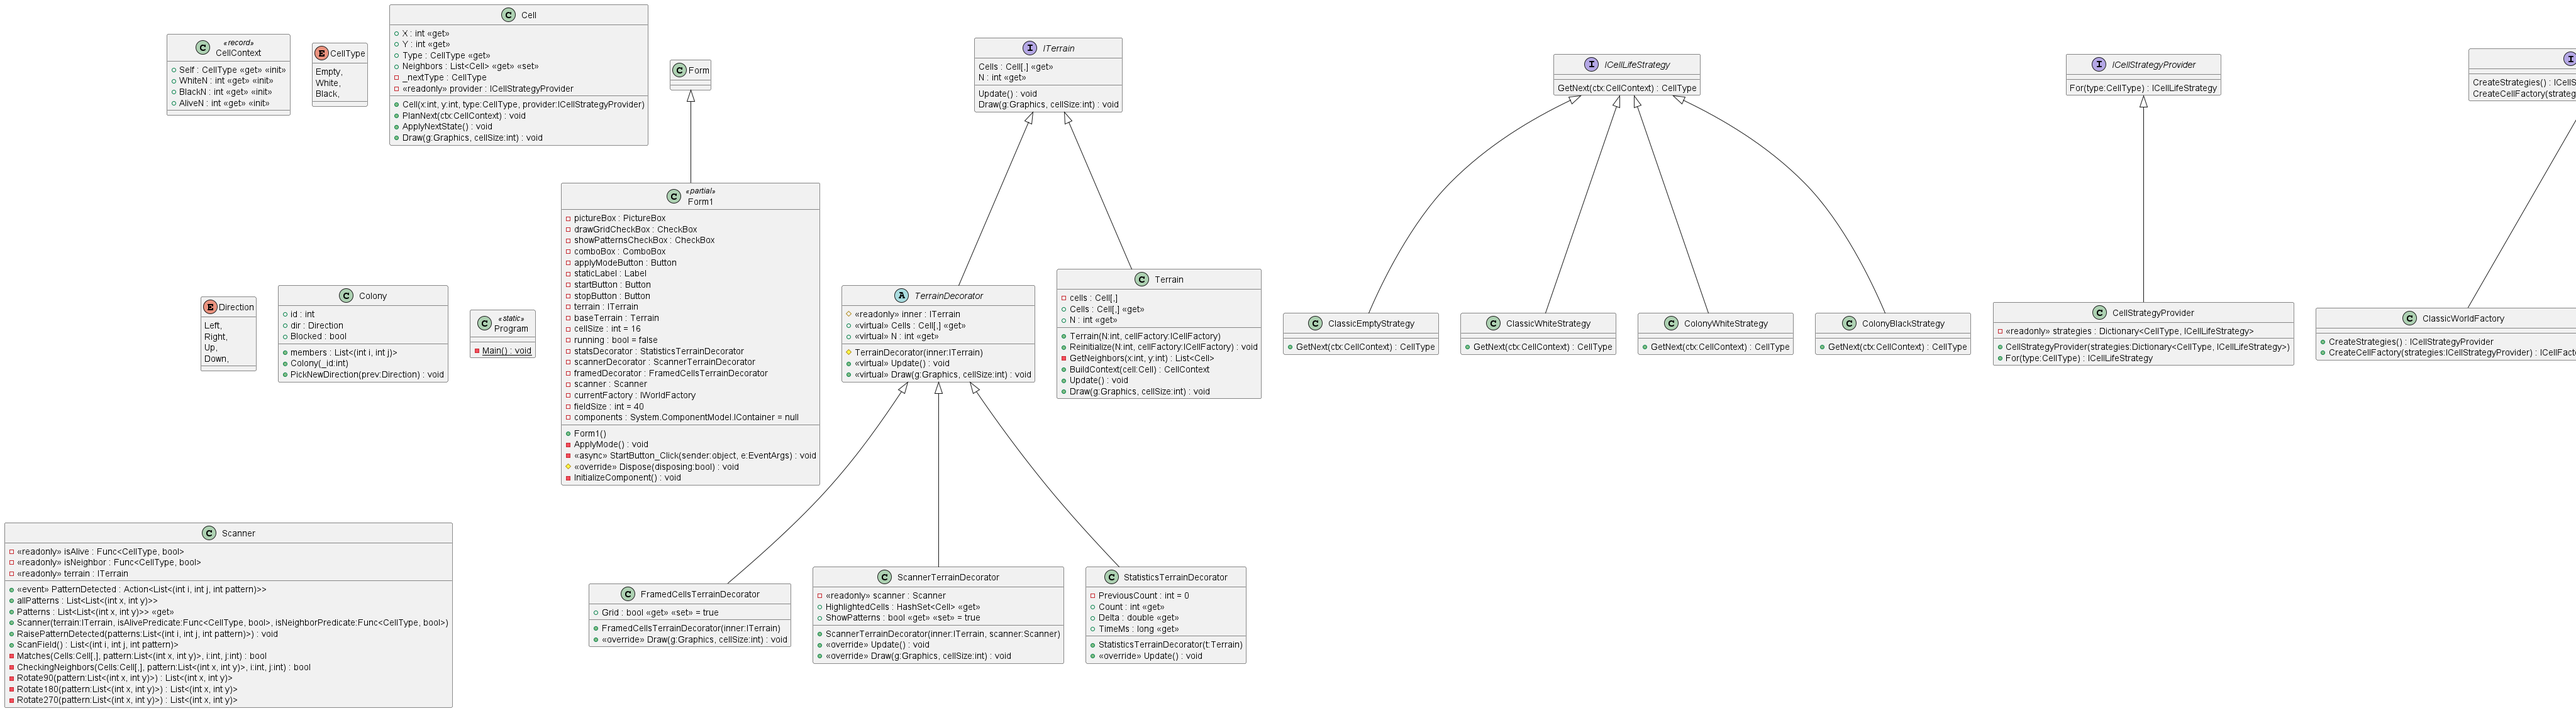
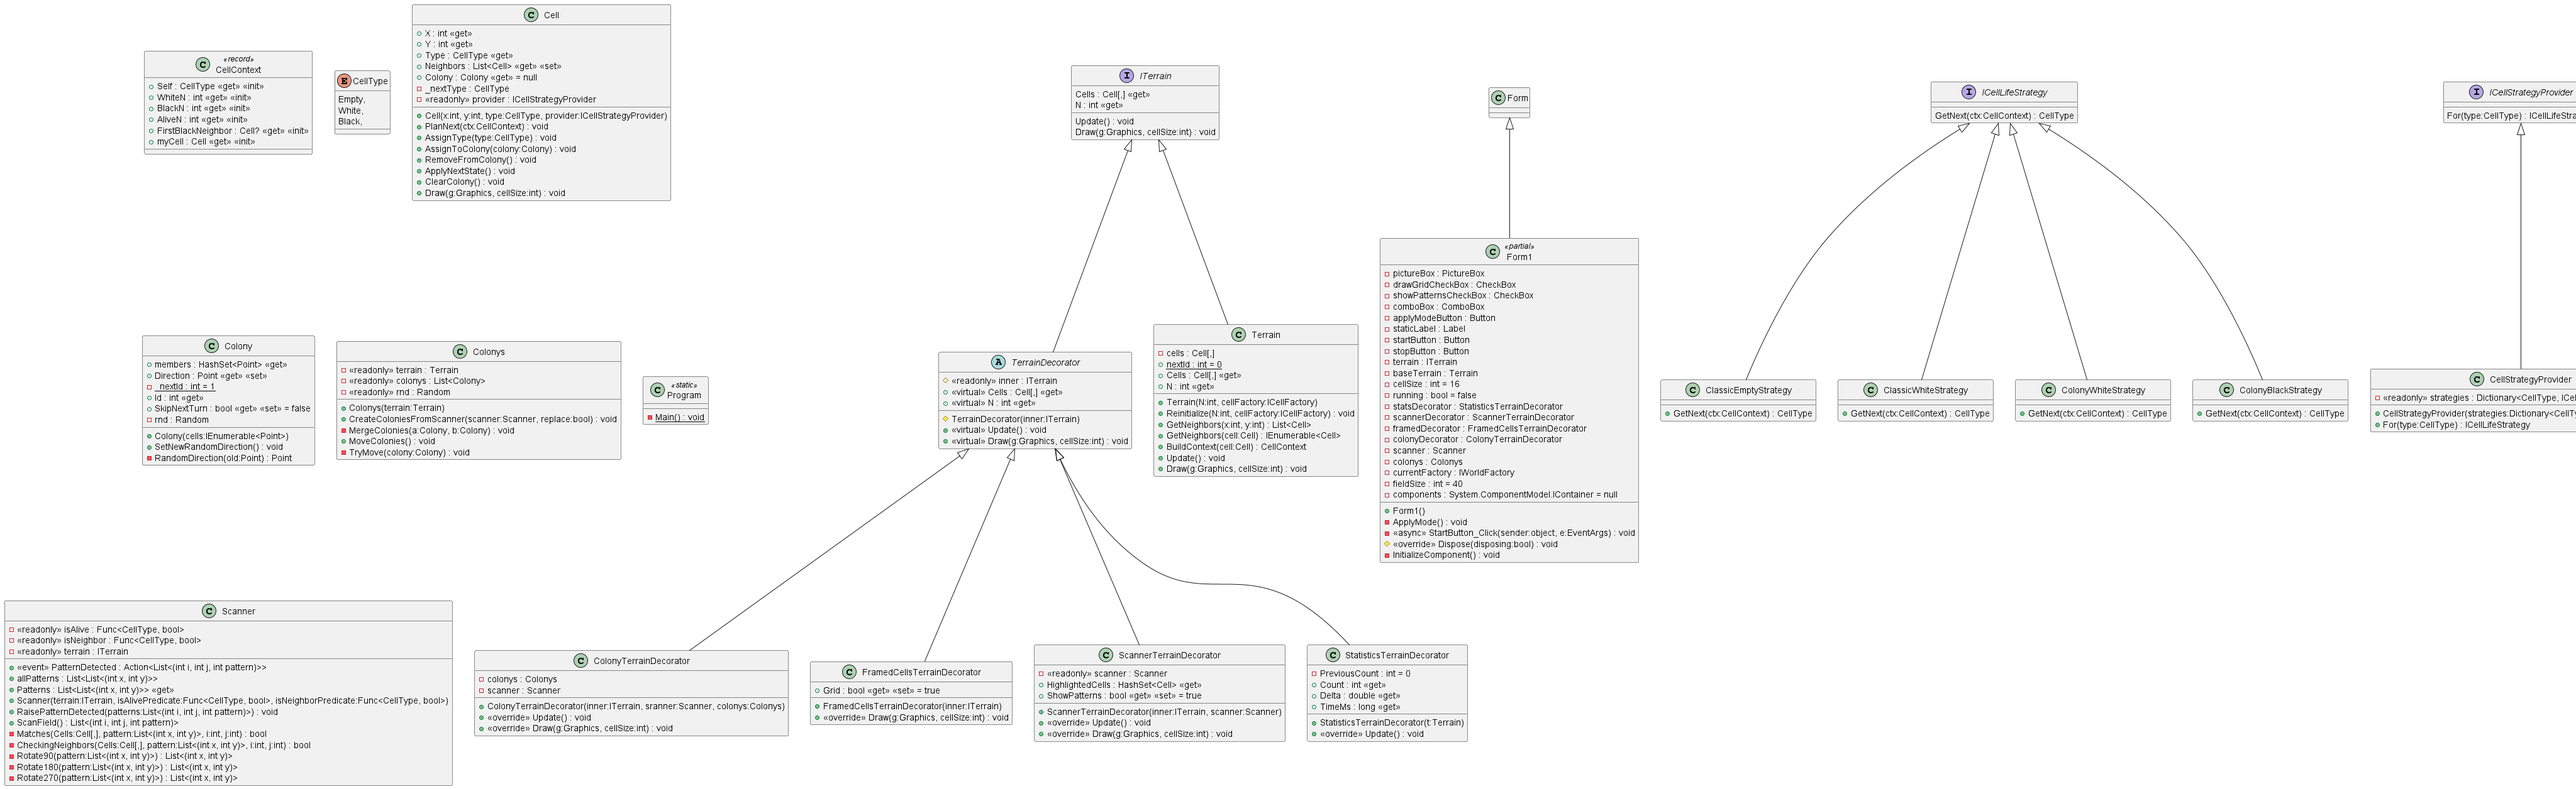
3

diff --git a/WinFormsApp2/Colony.cs b/WinFormsApp2/Colony.cs
@@ -52,9 +52,8 @@ namespace WinFormsApp1
             this.terrain = terrain ?? throw new ArgumentNullException(nameof(terrain));
         }
 
-        public void CreateColoniesFromScanner(Scanner scanner, bool replace = false)
+        public void CreateColoniesFromScanner(Scanner scanner)
         {
-            if (replace) colonys.Clear();
             for (int i =0; i < terrain.N; i++)
             {
                 for (int j = 0; j< terrain.N; j++)
@@ -82,7 +81,6 @@ namespace WinFormsApp1
                 var coords = scanner.Patterns[p]
                     .Select(off => new Point(i + off.x, j + off.y))
                     .ToList();
-
                 if (coords.Count == 0) continue;
                 if (coords.All(pt => terrain.Cells[pt.X, pt.Y].Colony != null))
                     continue;
@@ -99,11 +97,14 @@ namespace WinFormsApp1
         private void MergeColonies(Colony a, Colony b)
         {
             if (a == b || b == null) return;
-            foreach (var t in b.members)
+            var bMembers = b.members.ToList();
+
+            foreach (var t in bMembers)
             {
                 a.members.Add(t);
                 terrain.Cells[t.X, t.Y].AssignToColony(a);
             }
+            b.members.Clear();
             colonys.Remove(b);
             a.SetNewRandomDirection();
         }
@@ -112,7 +113,10 @@ namespace WinFormsApp1
             var colonysCopy = colonys.ToList();
             foreach (var colony in colonysCopy)
             {
-                if (colonys.Contains(colony)) TryMove(colony);
+                if (colonys.Contains(colony))
+                {
+                    TryMove(colony);
+                }
             }
         }
 
@@ -132,6 +136,7 @@ namespace WinFormsApp1
                 if (nx < 0 || ny < 0 || nx >= terrain.N || ny >= terrain.N)
                 {
                     colony.SetNewRandomDirection();
+                    colony.SkipNextTurn = true;
                     return;
                 }
                 var a = terrain.Cells[nx, ny];
@@ -139,18 +144,19 @@ namespace WinFormsApp1
                 {
                     MergeColonies(colony, a.Colony);
                     colony.SkipNextTurn = true;
-                    a.Colony.SkipNextTurn = true;
                     return;
                 }
                 target.Add(new Point(nx, ny));
             }
-            foreach (var p in colony.members)
-            {
-                terrain.Cells[p.X, p.Y].RemoveFromColony();
-            }
             foreach (var p in target)
             {
                 terrain.Cells[p.X, p.Y].AssignToColony(colony);
+            }
+            var old = colony.members.ToList();
+            foreach (var p in old)
+            {
+                if (!target.Contains(p))
+                    terrain.Cells[p.X, p.Y].RemoveFromColony();
             }
             colony.members.Clear();
             foreach (var p in target) colony.members.Add(p);

diff --git a/WinFormsApp2/Terrain.cs b/WinFormsApp2/Terrain.cs
@@ -12,7 +12,6 @@ namespace WinFormsApp1
         {
             Reinitialize(N, cellFactory);
         }
-
         public void Reinitialize(int N, ICellFactory cellFactory)
         {
             Random rnd = new Random();
@@ -21,7 +20,7 @@ namespace WinFormsApp1
             {
                 for (int y = 0; y < N; y++)
                 {
-                    cells[x, y] = cellFactory.Create(x, y, rnd.Next(8) == 1 ? CellType.White : CellType.Empty);
+                    cells[x, y] = cellFactory.Create(x, y, rnd.Next(6) == 1 ? CellType.White : CellType.Empty);
                 }
             }
             //for (int x = 0; x < N; x++)
@@ -83,7 +82,6 @@ namespace WinFormsApp1
                     if (firstBlack == null) firstBlack = n; 
                 }
             }
-
             return new CellContext(cell.Type, white, black, white + black, firstBlack, cell);
         }
 
@@ -98,7 +96,6 @@ namespace WinFormsApp1
                 {
                     cells[x, y].ApplyNextState();
                 }
-
         }
         public void Draw(Graphics g, int cellSize)
         {

diff --git a/WinFormsApp2/ICellLifeStrategy.cs b/WinFormsApp2/ICellLifeStrategy.cs
@@ -14,7 +14,7 @@ namespace WinFormsApp1
     {
         public CellType GetNext(CellContext ctx)
         {
-            return ctx.AliveN == 3 ? CellType.White : CellType.Empty;
+            return ctx.WhiteN == 3 ? CellType.White : CellType.Empty;
         }
     }
     public class ClassicWhiteStrategy : ICellLifeStrategy
@@ -33,7 +33,7 @@ namespace WinFormsApp1
                 ctx.myCell.AssignToColony(ctx.FirstBlackNeighbor.Colony);
                 return CellType.Black;
             }
-            return (ctx.AliveN == 2 || ctx.AliveN == 3) ? CellType.White : CellType.Empty;
+            return (ctx.WhiteN == 2 || ctx.WhiteN == 3) ? CellType.White : CellType.Empty;
         }
     }
 
@@ -45,7 +45,7 @@ namespace WinFormsApp1
             {
                 return CellType.White;
             }
-            return (ctx.AliveN == 2 || ctx.AliveN == 3) ? CellType.Black : CellType.Empty;
+            return (ctx.BlackN == 2 || ctx.BlackN == 3) ? CellType.Black : CellType.Empty;
         }
     }
 

diff --git a/WinFormsApp2/Form1.cs b/WinFormsApp2/Form1.cs
@@ -114,21 +114,17 @@ namespace WinFormsApp1
             running = true;
             startButton.Enabled = false;
             stopButton.Enabled = true;
-            int count = 0;
             while (running)
             {
                 terrain.Update();
-                if (count % 100 == 0)
-                {
-                    colonys?.CreateColoniesFromScanner(scanner);
-                }
-               
+                colonys?.CreateColoniesFromScanner(scanner);
+                colonys?.MoveColonies();
                 pictureBox.Invalidate();
                 staticLabel.Text =
                     $"Alive: {statsDecorator.Count}\n" +
                     $"Turn time: {statsDecorator.TimeMs} ms";
 
-                await Task.Delay(100);
+                await Task.Delay(300);
             }
             startButton.Enabled = true;
             stopButton.Enabled = false;

diff --git a/WinFormsApp2/ColonyTerrainDecorator.cs b/WinFormsApp2/ColonyTerrainDecorator.cs
@@ -14,7 +14,7 @@ namespace WinFormsApp1
         public override void Update()
         {
             inner.Update();
-            colonys.MoveColonies();
+            
         }
         public override void Draw(Graphics g, int cellSize)
         {
